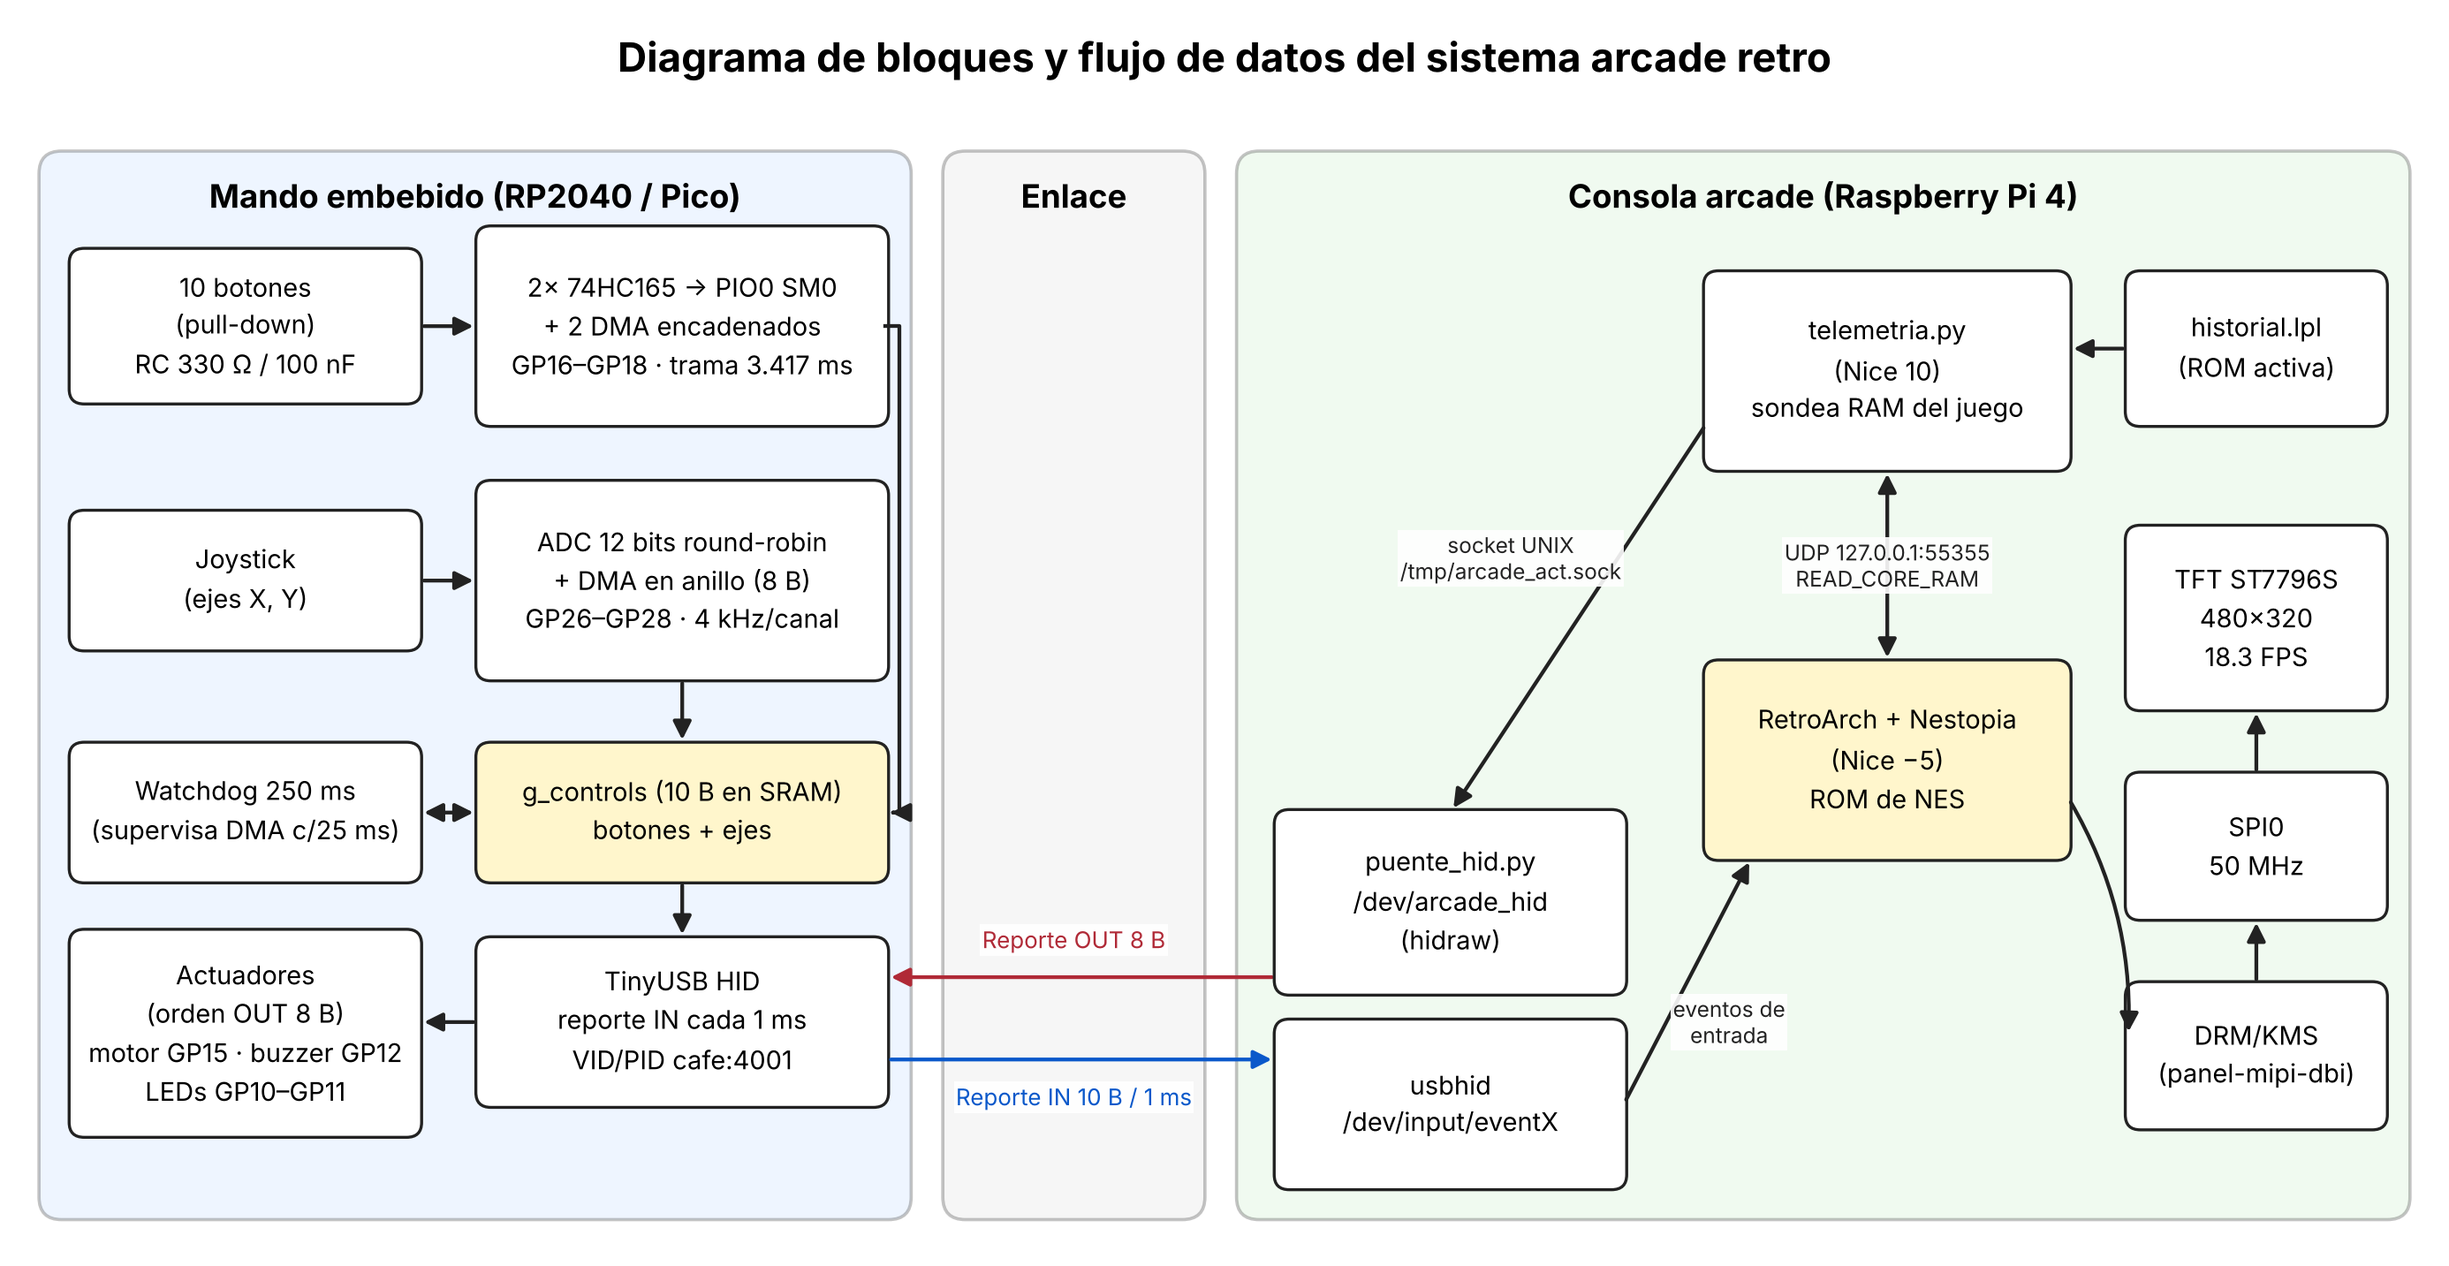
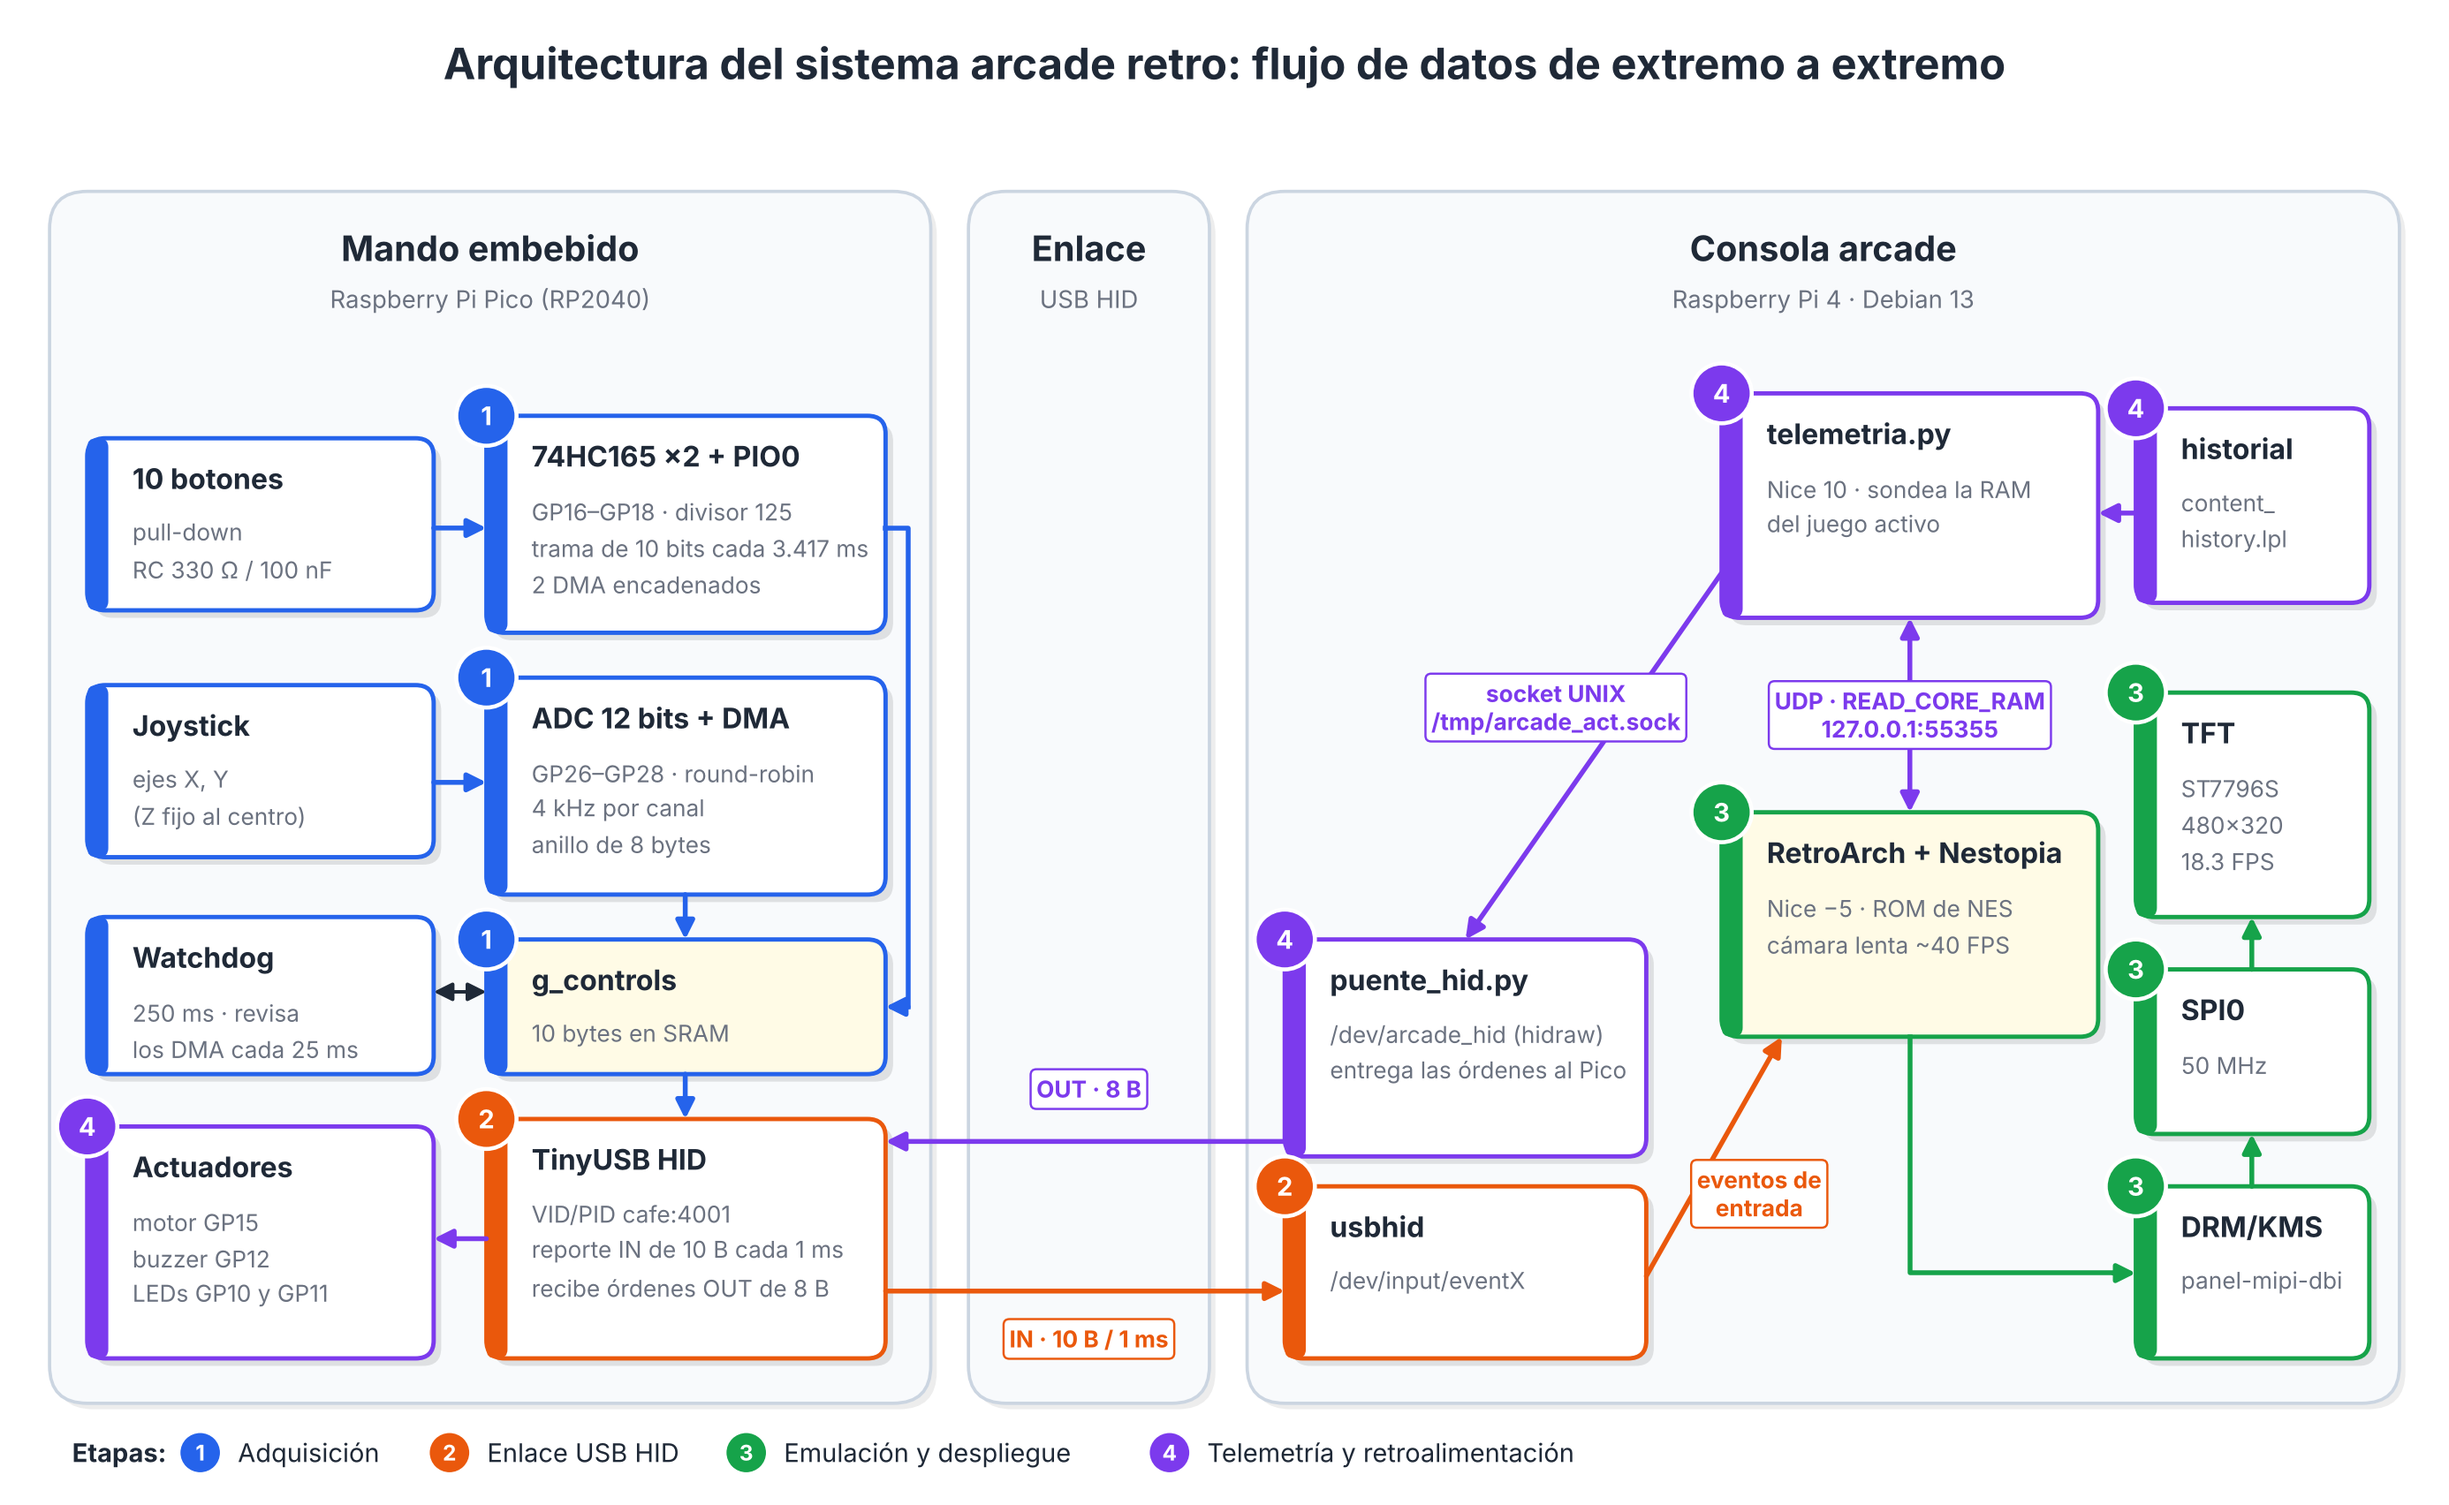
Seccion de Jesus: corrige compilacion (simbolo %, tablas) y diagrama final

diff --git a/ProyectoFinal/Entrega_FInal_E2/secciones/jesus.tex b/ProyectoFinal/Entrega_FInal_E2/secciones/jesus.tex
@@ -52,7 +52,8 @@ Para integrar el despliegue visual dentro del gabinete impreso en 3D sin depende
 	\caption{Conexión física entre el panel TFT ST7796S y la Raspberry Pi 4}
 	\label{tab:pines_tft}
 	\footnotesize
-	\begin{tabular}{|c|c|l|}
+	\resizebox{\columnwidth}{!}{%
+\begin{tabular}{|c|c|l|}
 		\hline
 		\textbf{Pin TFT} & \textbf{Pin físico Pi 4} & \textbf{Función} \\
 		\hline
@@ -64,7 +65,7 @@ Para integrar el despliegue visual dentro del gabinete impreso en 3D sin depende
 		\hline
 		RST / DC / CS & Pin 18 / Pin 22 / Pin 24 & Reinicio, selección Dato/Comando y Chip Select \\
 		\hline
-	\end{tabular}
+	\end{tabular}}
 \end{table}
 
 \textbf{Configuración de kernel y desempeño medido:}
@@ -87,37 +88,38 @@ Las mediciones de la Tabla~\ref{tab:desempeno_pi} se tomaron directamente en la 
 	\caption{Desempeño medido de la Raspberry Pi 4}
 	\label{tab:desempeno_pi}
 	\footnotesize
-	\begin{tabular}{|l|c|c|}
+	\resizebox{\columnwidth}{!}{%
+\begin{tabular}{|l|c|c|}
 		\hline
 		\textbf{Métrica} & \textbf{Reposo} & \textbf{Bajo carga (Pac-Man)} \\
 		\hline
 		Arranque (kernel + espacio de usuario) & \multicolumn{2}{c|}{$2.751 + 16.124 = 18.876\text{ s}$} \\
 		\hline
-		CPU total utilizada (4 núcleos) & $5.2$--$7.5\,\%$ & $7.60\,\%$ \\
+		CPU total utilizada (4 núcleos) & $5.2$--$7.5$\,\% & $7.60$\,\% \\
 		\hline
-		CPU de RetroArch (un núcleo) & --- & $20.0\,\%$ \\
+		CPU de RetroArch (un núcleo) & --- & $20.0$\,\% \\
 		\hline
-		CPU de \texttt{telemetria.py} (un núcleo) & $<0.1\,\%$ & $1.0\,\%$ \\
+		CPU de \texttt{telemetria.py} (un núcleo) & $<0.1$\,\% & $1.0$\,\% \\
 		\hline
-		RAM utilizada ($905\text{ MiB}$ totales) & $220\text{ MiB}$ ($24.3\,\%$) & $283\text{ MiB}$ ($31.3\,\%$) \\
+		RAM utilizada ($905\text{ MiB}$ totales) & $220\text{ MiB}$ ($24.3$\,\%) & $283\text{ MiB}$ ($31.3$\,\%) \\
 		\hline
 		Memoria de intercambio utilizada & $0\text{ B}$ & $0\text{ B}$ \\
 		\hline
 		\texttt{vcgencmd get\_throttled} & \texttt{0x0} & \texttt{0x0} \\
 		\hline
-		\texttt{perf bench sched pipe} & $4.35$--$4.84\,\mu\text{s/op}$ & $4.62\,\mu\text{s/op}$ ($216{,}412$ ops/s) \\
+		\texttt{perf bench sched pipe} & $4.35$--$4.84\,\mu\text{s/op}$ & $4.62\,\mu\text{s/op}$ \\
 		\hline
-	\end{tabular}
+	\end{tabular}}
 \end{table}
 
-El sistema opera con más de $90\,\%$ de CPU libre y sin uso de intercambio, y el valor \texttt{0x0} de \texttt{get\_throttled} indica que no hubo subvoltaje ni limitación térmica durante las pruebas.
+El sistema opera con más de $90$\,\% de CPU libre y sin uso de intercambio, y el valor \texttt{0x0} de \texttt{get\_throttled} indica que no hubo subvoltaje ni limitación térmica durante las pruebas.
 
-\paragraph{Consumo eléctrico (estimado).}
-El consumo eléctrico se obtuvo mediante estimación. Para la Raspberry Pi 4 se partió de valores publicados de $2.7\,\mathrm{W}$ en reposo y $6.4\,\mathrm{W}$ con los cuatro núcleos al $100\,\%$ (\texttt{pidramble.com/node/27}) y se interpoló linealmente según la CPU utilizada $u$:
+\vspace{3pt}\noindent\textbf{Consumo eléctrico (estimado).}\\[2pt]
+El consumo eléctrico se obtuvo mediante estimación. Para la Raspberry Pi 4 se partió de valores publicados de $2.7\,\mathrm{W}$ en reposo y $6.4\,\mathrm{W}$ con los cuatro núcleos al $100$\,\% (\texttt{pidramble.com/node/27}) y se interpoló linealmente según la CPU utilizada $u$:
 \begin{equation}
 P_{Pi} = 2.7 + (6.4 - 2.7)\,u
 \end{equation}
-Con $u = 5.2\,\%$ en reposo y $u = 7.6\,\%$ bajo carga se obtienen $2.9\,\mathrm{W}$ y $3.0\,\mathrm{W}$, respectivamente. Para los periféricos se supusieron corrientes típicas a $5\,\mathrm{V}$ (Tabla~\ref{tab:energia}).
+Con $u = 5.2$\,\% en reposo y $u = 7.6$\,\% bajo carga se obtienen $2.9\,\mathrm{W}$ y $3.0\,\mathrm{W}$, respectivamente. Para los periféricos se supusieron corrientes típicas a $5\,\mathrm{V}$ (Tabla~\ref{tab:energia}).
 
 \begin{table}[H]
 	\centering
@@ -139,14 +141,14 @@ Con $u = 5.2\,\%$ en reposo y $u = 7.6\,\%$ bajo carga se obtienen $2.9\,\mathrm
 	\end{tabular}
 \end{table}
 
-Durante un evento de telemetría, el motor ($100\,\mathrm{mA}$), el buzzer ($30\,\mathrm{mA}$) y los dos LEDs ($2\times 10\,\mathrm{mA}$) suman $0.75\,\mathrm{W}$ durante $500\,\mathrm{ms}$, con un pico estimado de $3.6 + 0.75 = 4.35\,\mathrm{W}$ ($0.87\,\mathrm{A}$), equivalente al $29\,\%$ de los $15\,\mathrm{W}$ de la fuente mínima recomendada de $5\,\mathrm{V}/3\,\mathrm{A}$. La energía por evento es $0.75\,\mathrm{W}\times 0.5\,\mathrm{s} = 0.375\,\mathrm{J}$ y el consumo continuo de una hora de juego, $3.6\,\mathrm{Wh}$.
+Durante un evento de telemetría, el motor ($100\,\mathrm{mA}$), el buzzer ($30\,\mathrm{mA}$) y los dos LEDs ($2\times 10\,\mathrm{mA}$) suman $0.75\,\mathrm{W}$ durante $500\,\mathrm{ms}$, con un pico estimado de $3.6 + 0.75 = 4.35\,\mathrm{W}$ ($0.87\,\mathrm{A}$), equivalente al $29$\,\% de los $15\,\mathrm{W}$ de la fuente mínima recomendada de $5\,\mathrm{V}/3\,\mathrm{A}$. La energía por evento es $0.75\,\mathrm{W}\times 0.5\,\mathrm{s} = 0.375\,\mathrm{J}$ y el consumo continuo de una hora de juego, $3.6\,\mathrm{Wh}$.
 
 \subsection{Análisis Temporal Calculado (sin instrumentación externa)}
 \textbf{Autor:} Domínguez Palacios Jesús Alejandro
 
 Los valores de esta sección se obtuvieron de forma analítica a partir del código fuente del firmware y de los parámetros de hardware, y se identifican como \textit{calculados}. La excepción es el tiempo de entrega al Pico, que proviene de los registros del servicio puente.
 
-\paragraph{Periodo de escaneo de botones (RF1).}
+\vspace{3pt}\noindent\textbf{Periodo de escaneo de botones (RF1).}\\[2pt]
 Cada trama del PIO consta de una cabecera de 130 ciclos, nueve iteraciones de 130 ciclos y una pausa de $2\,116$ ciclos:
 \begin{equation}
 N = 130 + 9\times 130 + 1 + 2\times(1 + 32\times 33 + 1) = 3417 \text{ ciclos}
@@ -157,13 +159,13 @@ T_{escaneo} = 3417\,\mu\mathrm{s} = 3.417\,\mathrm{ms}, \qquad f_{escaneo} = 292
 \end{equation}
 El periodo de CLK en GP18 es de $130\,\mu\mathrm{s}$. Como el PIO opera sin intervención de la CPU, el jitter está limitado solo por la tolerancia del cristal (típicamente $\pm 30$\,ppm, es decir, $\pm 0.10\,\mu\mathrm{s}$ sobre el periodo), por lo que se espera una desviación estándar despreciable.
 
-\paragraph{Muestreo analógico.}
+\vspace{3pt}\noindent\textbf{Muestreo analógico.}\\[2pt]
 El divisor del ADC es $48\,\mathrm{MHz}/(4000\times 4) - 1 = 2999$, lo que da una conversión cada $62.5\,\mu\mathrm{s}$ y $250\,\mu\mathrm{s}$ por canal ($4\,\mathrm{kHz}$).
 
-\paragraph{Actuadores.}
-El motor opera con PWM de $125\,\mathrm{MHz}/(6.25\times 1000) = 20\,\mathrm{kHz}$ y ciclo útil de $799/1000 = 79.9\,\%$. Para el buzzer, una orden de $2700\,\mathrm{Hz}$ resulta en \texttt{wrap} $=722$ y una frecuencia real de $125\,\mathrm{MHz}/(64\times 723) = 2701.4\,\mathrm{Hz}$ (error de $0.05\,\%$).
+\vspace{3pt}\noindent\textbf{Actuadores.}\\[2pt]
+El motor opera con PWM de $125\,\mathrm{MHz}/(6.25\times 1000) = 20\,\mathrm{kHz}$ y ciclo útil de $799/1000 = 79.9$\,\%. Para el buzzer, una orden de $2700\,\mathrm{Hz}$ resulta en \texttt{wrap} $=722$ y una frecuencia real de $125\,\mathrm{MHz}/(64\times 723) = 2701.4\,\mathrm{Hz}$ (error de $0.05$\,\%).
 
-\paragraph{Latencia de entrada (RNF1).}
+\vspace{3pt}\noindent\textbf{Latencia de entrada (RNF1).}\\[2pt]
 Se define como el tiempo entre la pulsación de un botón y la disponibilidad del evento en la Raspberry Pi.
 
 \begin{table}[H]
@@ -188,7 +190,7 @@ Se define como el tiempo entre la pulsación de un botón y la disponibilidad de
 	\end{tabular}
 \end{table}
 
-\paragraph{Latencia de actuadores (RNF2/RF3).}
+\vspace{3pt}\noindent\textbf{Latencia de actuadores (RNF2/RF3).}\\[2pt]
 Desde el cambio en la RAM del juego hasta el disparo del actuador:
 
 \begin{table}[H]
